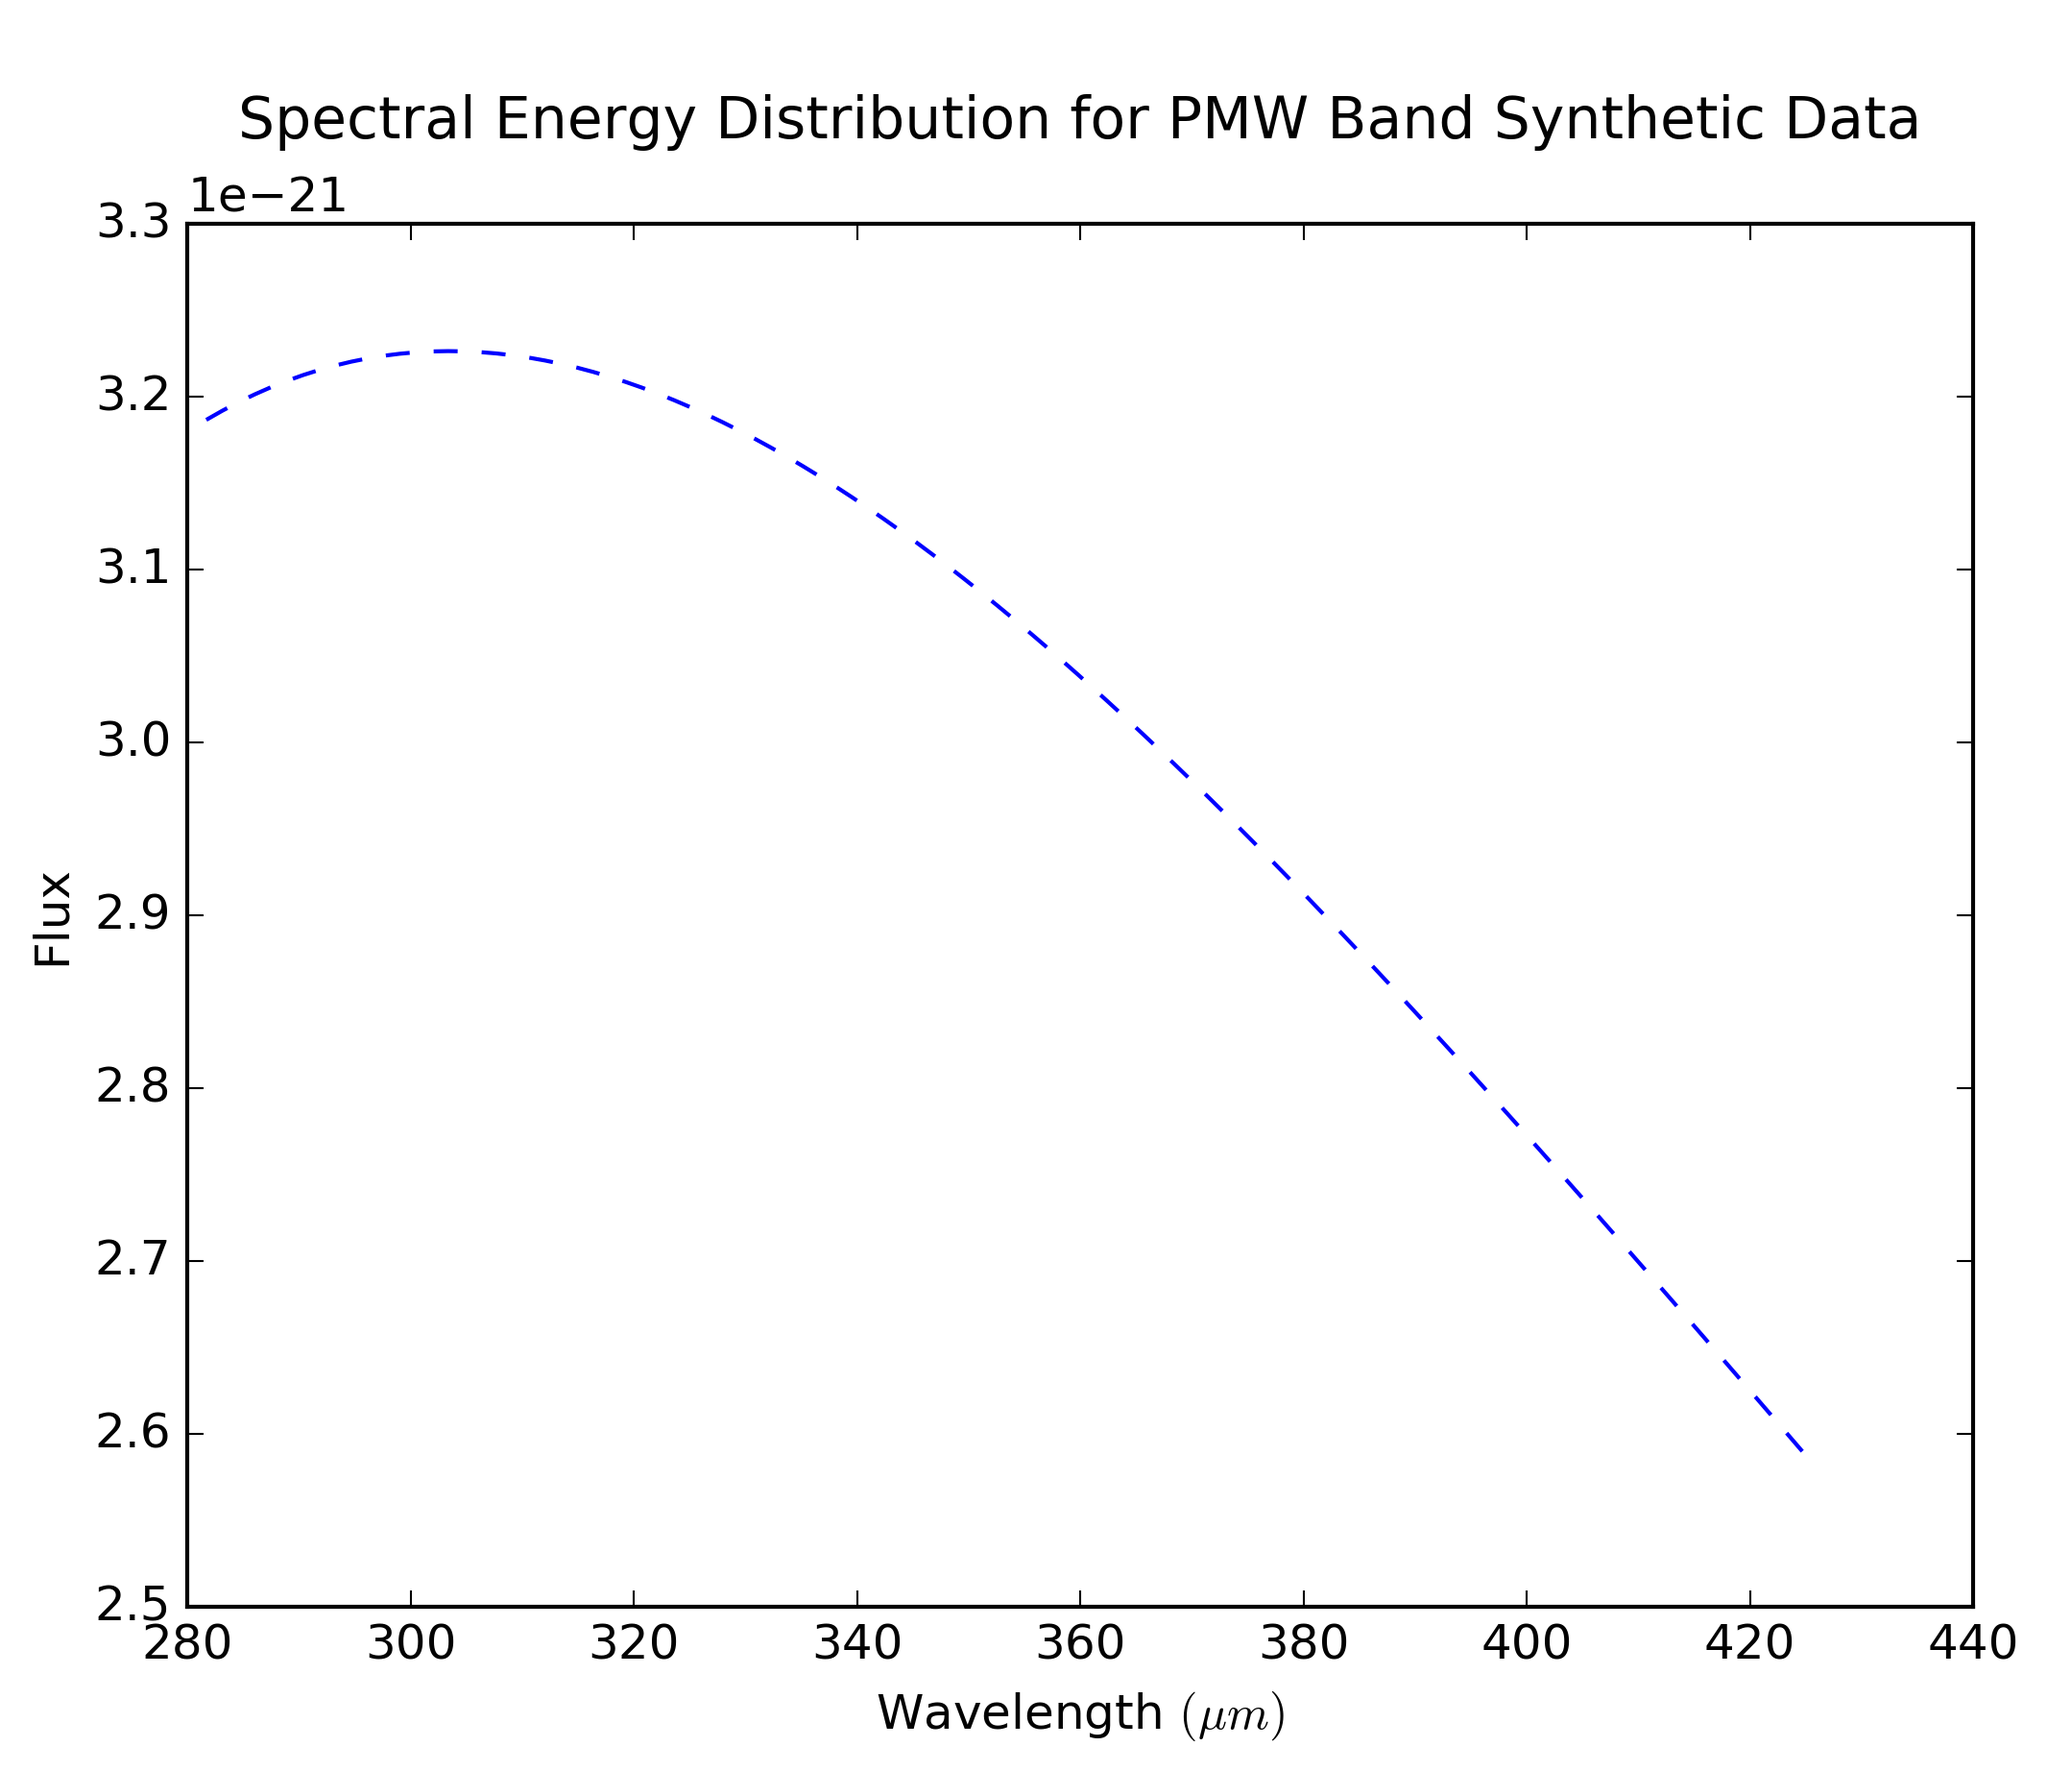
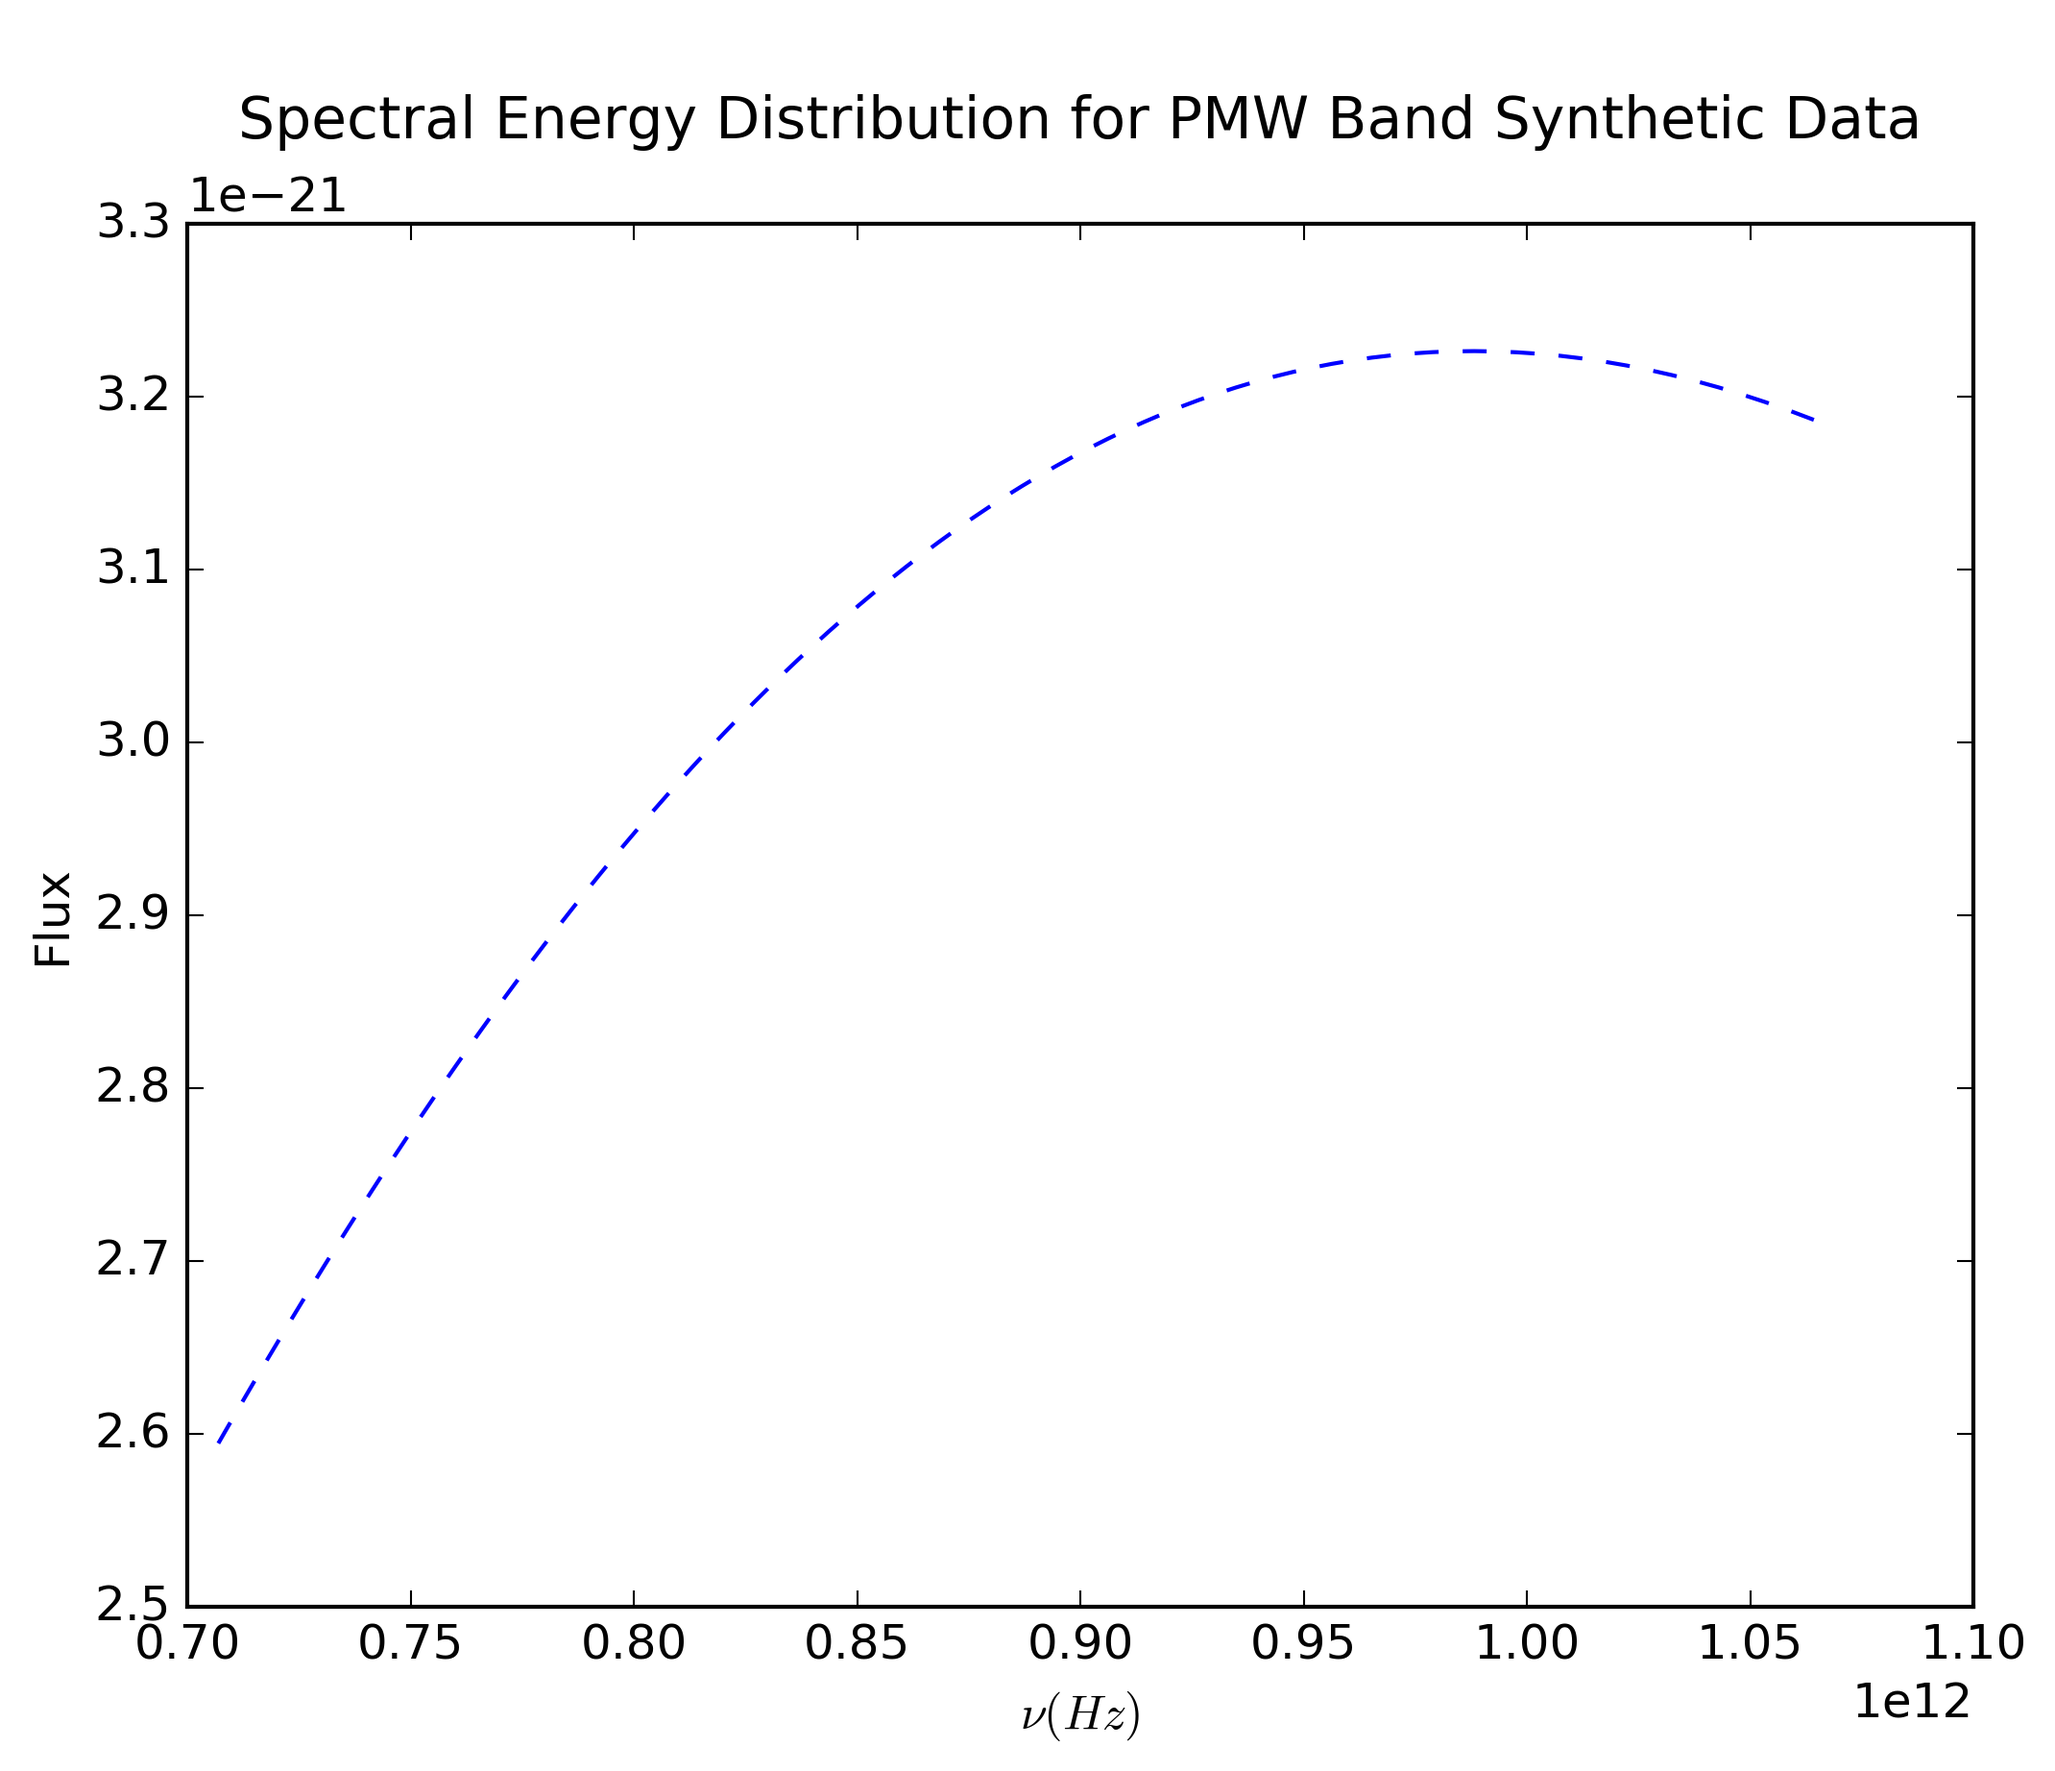
Working SED generation; analytical approach still does work

diff --git a/Code/simulations/stats/chi.py b/Code/simulations/stats/chi.py
@@ -36,24 +36,27 @@ def chi(O,E,sigma):
     return sum((((O-E)/sigma)**2))
 
 # Modified blackbody
-def mbb(N,opac,wav,T):
+def mbb(sigma,N,opac,v,T):
     '''
     Function that returns the modified black body law that best describes cold dust emission as stated in Kelly et. al. (2012).
 
     This returns the intensity per unit solid angle, i.e. the flux observed.
     '''
-    a = (2*(6.626e-34)*(3e8)**2)/(wav**5)
-    b = ((6.6262e-34)*(3e8))/(wav*(1.38e-23)*T)
-    #return N*opac*(a*(1./(np.exp(b)-1)))
-    return opac*N*(a*(1./(np.exp(b)-1)))
+    #a = (2*(hh)*(cc)**2)/(wav**5)
+    #b = ((hh)*(cc))/(wav*(kk)*T)
+    a = (2*(hh)*(v**3))/(cc**2)
+    b = (hh*v)/(kk*T)
+    return sigma*N*opac*a*(1./(np.exp(b)-1))
 
 ############################ Read in the spectral data #########################
 
 # Read in the spectrum
 spectrum = np.loadtxt('spectrum.out', skiprows=2)
 
-wav = spectrum[:,0]
+wav = spectrum[:,0]*10**-4
 flux = spectrum[:,1]
+
+v = cc/wav
 
 ######################### Determine (again) the opacity ########################
 
@@ -61,23 +64,51 @@ band = input('Which passband is to be considered? Answer with: \'PSW\', \'PMW\',
 
 if band == 'PSW':
     # The start and end points of the wavelength range in microns
-    lambda_init = 199.4540e-6
-    lambda_fin = 298.5657e-6
+    lambda_init = 199.4540e-4
+    lambda_fin = 298.5657e-4
+    v_init = cc/lambda_init
+    v_fin = cc/lambda_fin
 
     # Query for reference wavelength
-    w_ref = 1.30e9
-    v_ref = cc*10**-2/w_ref
-    print 'The reference wavelength is taken to be', w_ref, 'microns which equates to a frequency of', v_ref, 'Hz.\n'
+    w_ref = 1.30e-5
+    v_ref = cc/w_ref
+    print 'The reference wavelength is taken to be', w_ref, 'cm which equates to a frequency of', v_ref, 'Hz.\n'
+
+    # Solid angle of the beam
+    sigma_arc = 465 # 465 square arcseconds
+    sigma = sigma_arc*(1/4.24e10) # 465 square arcseconds in steradians
 
 if band == 'PMW':
     # The start and end points of the wavelength range in microns
-    lambda_init = 281.6949
-    lambda_fin = 424.7548
+    lambda_init = 281.6949e-4
+    lambda_fin = 424.7548e-4
+    v_init = cc/lambda_init
+    v_fin = cc/lambda_fin
 
     # Query for reference wavelength
-    w_ref = 1.30e9
-    v_ref = cc*10**-2/w_ref
-    print 'The reference wavelength is taken to be', w_ref, 'microns which equates to a frequency of', v_ref, 'Hz.\n'
+    w_ref = 1.30e-4
+    v_ref = cc/w_ref
+    print 'The reference wavelength is taken to be', w_ref, 'cm which equates to a frequency of', v_ref, 'Hz.\n'
+
+    # Solid angle of the beam
+    sigma_arc = 822 # 465 square arcseconds
+    sigma = sigma_arc*(1/4.24e10) # 465 square arcseconds in steradians
+
+if band == 'PLW':
+    # The start and end points of the wavelength range in microns
+    lambda_init = 391.4346e-4
+    lambda_fin = 690.8139e-4
+    v_init = cc/lambda_init
+    v_fin = cc/lambda_fin
+
+    # Query for reference wavelength
+    w_ref = 1.30e-4
+    v_ref = cc/w_ref
+    print 'The reference wavelength is taken to be', w_ref, 'cm which equates to a frequency of', v_ref, 'Hz.\n'
+
+    # Solid angle of the beam
+    sigma_arc = 1768 # 465 square arcseconds
+    sigma = sigma_arc*(1/4.24e10) # 465 square arcseconds in steradians
 
 # Ask for reference opacity
 #kappa_0 = input('What reference intensity should be used? (1 is a safe default)\n')
@@ -93,6 +124,7 @@ print 'There are ', nlam, 'points in the opacity spectrum.\n'
 
 # Create array of wavelengths from range given and reshape
 w = np.linspace(lambda_init, lambda_fin, nlam)
+v = np.linspace(v_init, v_fin, nlam)
 
 # Ask for opacity law
 opaclaw = input('Which opacity law should I use? Answer with: \'H\' (Hildebrand) \n')
@@ -102,13 +134,43 @@ B = input('What dust spectral index should be used? (1.7 is recommended)\n')
 
 if opaclaw == 'H':
     # Evaluate opacities
-    opacity = kappa_0*(w_ref/w)**B
+    #opacity = kappa_0*(w_ref/w)**B
+    opacity = kappa_0*(v/v_ref)**B
+
+#################### Determine the expected column density #####################
+'''
+# Define dust-to-gas ratio
+d2g = 0.01
+
+# Ask for the cloud mass and convert to grams
+m = input('What cloud mass should be used? (Answer should be in Solar Masses)\n')
+dust_mass = d2g*m*ms
+print 'The mass of the cloud considered is', m*ms, 'g. The dust mass is ', dust_mass, 'g.\n'
+
+# Ask for the cloud number density and convert to g/cm^3
+cloud = input('What number density should be assigned to the cloud?\n')
+cloud_density = cloud*muh2*mp*d2g
+print 'The cloud density is', cloud_density, 'g/cm^3.\n'
+
+T = input('What temperature should be assigned to the cloud?\n')
+print 'The cloud temperature is', T, 'K.\n'
+
+# Determine the Jeans' mass
+M_j = (((5*kk*T)/(gg*muh2*mp))**(3./2))*(3./(4*np.pi*cloud_density))**(1./2)
+print 'The Jeans\' mass was determined to be', M_j, 'g.\n'
+
+# Determine the Jeans' radius
+R = np.sqrt((15*kk*T)/(4*np.pi*cloud_density*gg*muh2*mp))
+print 'The Jeans\' length was determined to be', M_j, 'cm.\n'
+
+# Calculate the column density
+col = M_j/(np.pi*(R/2)**2)
+print 'The column density was determined to be', col, 'g/cm^2.'
+'''
+
+N = np.linspace(1e24,9e24,9)
 
 ###################### Determine the modified black body #######################
-
-# Generate list of column densities
-#N = np.linspace(1e21,9e22,10)
-N = [1e21]
 
 # Loop through each column density and determine modified black body curve
 mod = []
@@ -117,15 +179,18 @@ mod = []
 figure(1)
 
 for i in range(0,len(N)):
-    blackbody = mbb(N[i],opacity,w,T=20)
+    blackbody = mbb(sigma,N[i],opacity,v,T=10)
     mod.append(blackbody)
 
-    plot(np.log10(wav),np.log10(blackbody),label=str('N=')+str(N[i]))
+    plot(v,blackbody,label=str('N=')+str(N[i]))
+    #loglog(v,blackbody,label=str('N=')+str(N[i]))
 
-xlabel('Wavelength ($\mu m$)')
-ylabel('Flux')
+xlabel(r'$\nu(Hz)$')
+ylabel('Intensity $(erg/cm^{2}/s/Hz/ster)$')
 legend(loc='best')
 title(str('\nThe Modified Black Body Curve for N=')+str(N[0])+str('$cm^{-2}$ to ')+str(N[-1])+str('$cm^{-2}$\n'))
+#xlim(min(v),max(v))
+#ylim(min(blackbody),max(blackbody))
 savefig(str(band)+str('_modbb.png'),dpi=300)
 close()
 

diff --git a/Code/simulations/workingsims/psw/background_15K/psw_sed.py b/Code/simulations/workingsims/psw/background_15K/psw_sed.py
@@ -38,21 +38,21 @@ spectrum = np.loadtxt('spectrum.out', skiprows=2)
 wav = spectrum[:,0]
 flux = spectrum[:,1]
 
-################################# Plotting routine #############################
+v = cc/(wav*10**-4)
 
 ################################# Plotting routine #############################
 
 figure(1)
-plot(wav, flux, 'b--')
-xlabel('Wavelength $(\mu m)$')
-ylabel('Flux')
+plot(v, flux, 'b--')
+xlabel(r'$\nu(Hz)$')
+ylabel('Flux $(erg/cm^{2}/s/Hz)$')
 title('\nSpectral Energy Distribution for PSW Band Synthetic Data\n')
 savefig('spectrum_psw.png', dpi=300, bbox_inches='tight')
 close()
 
 figure(2)
-plot(wav, flux/max(flux), 'g--')
-xlabel('Wavelength $(\mu m)$')
+plot(v, flux/max(flux), 'g--')
+xlabel('$\nu (Hz)$')
 ylabel('Normalised Flux')
 title('\nSpectral Energy Distribution for PSW Band Synthetic Data\n')
 savefig('spectrum_norm_psw.png', dpi=300, bbox_inches='tight')

diff --git a/Code/simulations/workingsims/plw/background_15K/plw_sed.py b/Code/simulations/workingsims/plw/background_15K/plw_sed.py
@@ -38,10 +38,12 @@ spectrum = np.loadtxt('spectrum.out', skiprows=2)
 wav = spectrum[:,0]
 flux = spectrum[:,1]
 
+v = cc/(wav*10**-4)
+
 ################################# Plotting routine #############################
 
-plot(wav, flux, 'b--')
-xlabel('Wavelength $(\mu m)$')
+plot(v, flux, 'b--')
+xlabel(r'$\nu(Hz)$')
 ylabel('Flux')
 title('\nSpectral Energy Distribution for PLW Band Synthetic Data\n')
 savefig('spectrum_plw.png', dpi=300, bbox_inches='tight')

diff --git a/Code/simulations/workingsims/pmw/background_15K/pmw_sed.py b/Code/simulations/workingsims/pmw/background_15K/pmw_sed.py
@@ -38,10 +38,12 @@ spectrum = np.loadtxt('spectrum.out', skiprows=2)
 wav = spectrum[:,0]
 flux = spectrum[:,1]
 
+v = cc/(wav*10**-4)
+
 ################################# Plotting routine #############################
 
-plot(wav, flux, 'b--')
-xlabel('Wavelength $(\mu m)$')
+plot(v, flux, 'b--')
+xlabel(r'$\nu(Hz)$')
 ylabel('Flux')
 title('\nSpectral Energy Distribution for PMW Band Synthetic Data\n')
 savefig('spectrum_pmw.png', dpi=300, bbox_inches='tight')
